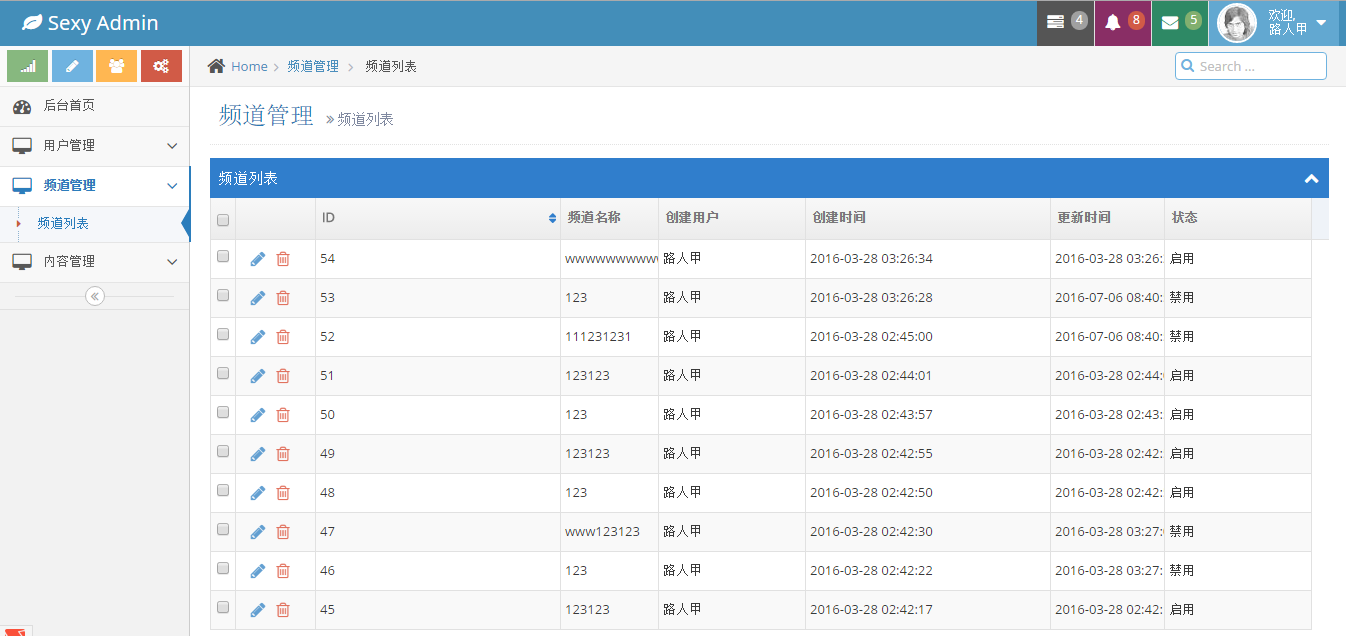
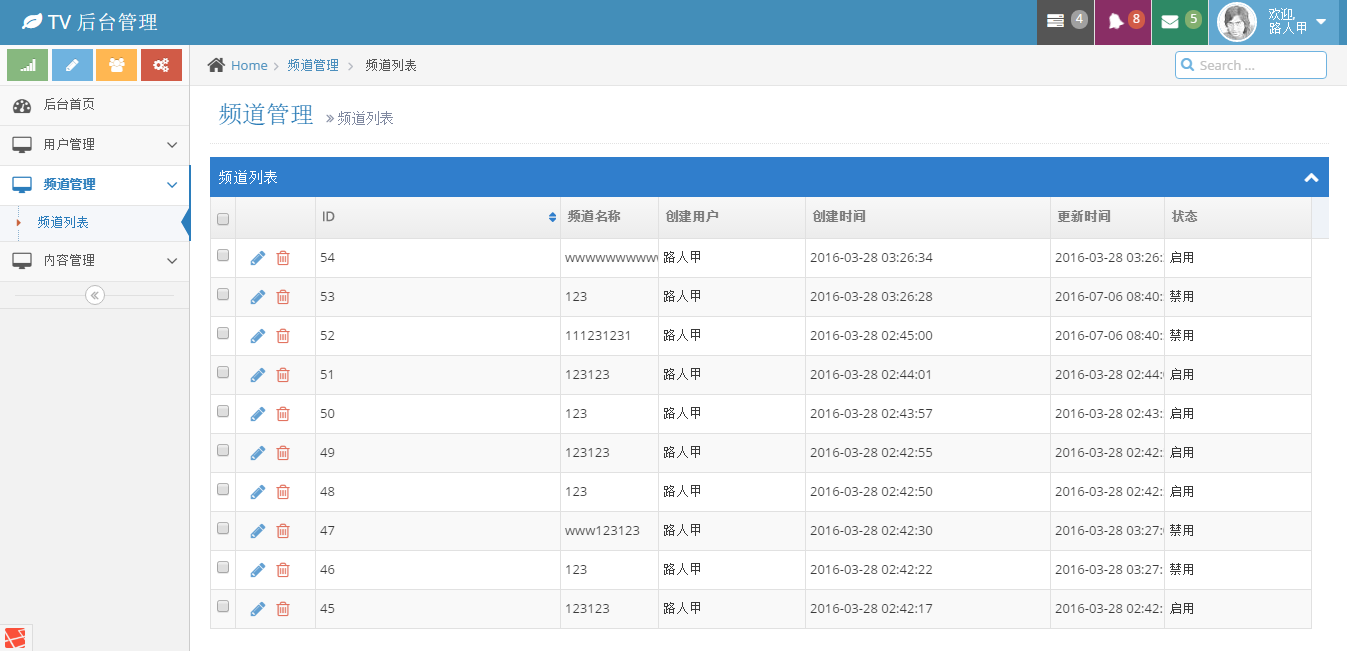
update details

diff --git a/resources/views/common/admin/layout.blade.php b/resources/views/common/admin/layout.blade.php
@@ -65,7 +65,7 @@
             <a href="#" class="navbar-brand">
                 <small>
                     <i class="fa fa-leaf"></i>
-                    Sexy Admin
+                    TV 后台管理
                 </small>
             </a>
 
